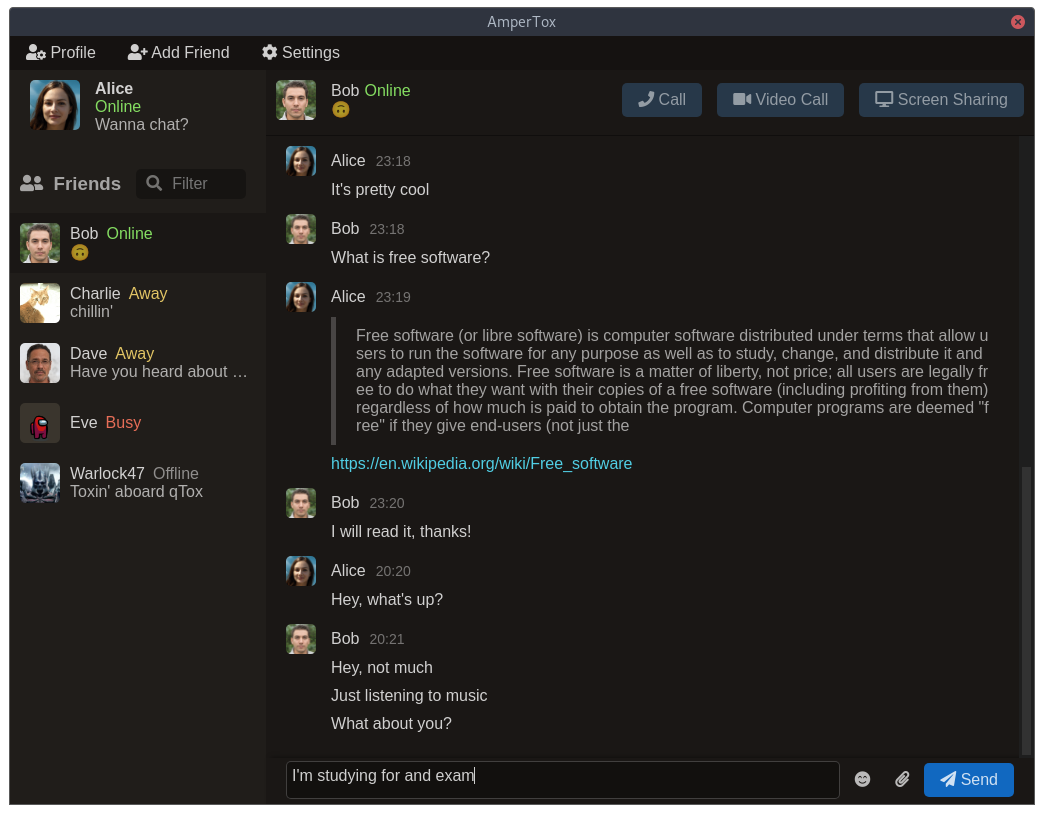
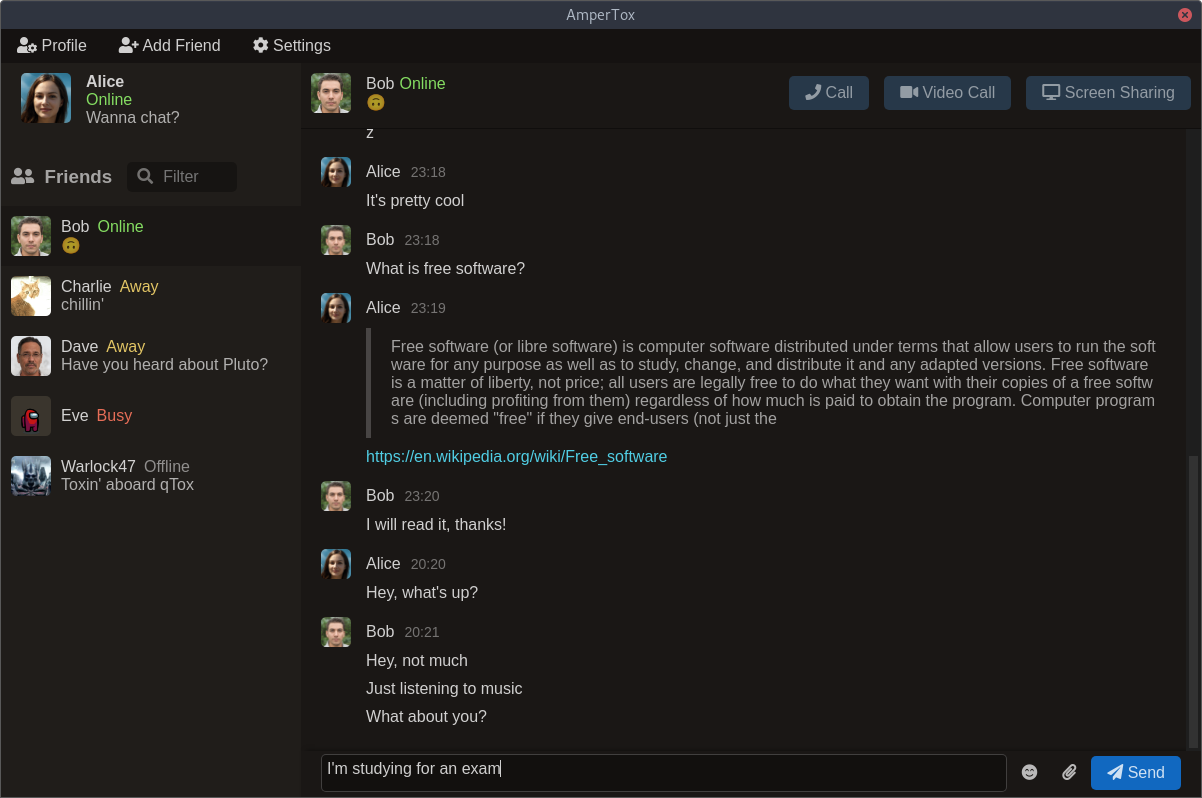
Implement mobile layout
This switches to one column layout on small screens. An extra button was added to allow viewing the contact list (showing the sidebar).

Changed region(s): [[0.0, 0.0, 1.0, 1.0], [0.2452, 0.7519, 0.4598, 0.9023]]

diff --git a/src/ui/main.js b/src/ui/main.js
@@ -1,8 +1,11 @@
 import "./index.css";
 import initComponents from "./components";
+const MOBILE_WIDTH = 600;
 const messenger = document.querySelector("#messenger");
 const welcome = document.querySelector("#welcome");
 const sidebar = document.querySelector("ui-sidebar");
+const topbar = document.querySelector("ui-topbar");
+const view = document.querySelector(".view");
 let username = "";
 let publicKey = "";
 let assetsPath = "";
@@ -20,12 +23,13 @@ function loadInitialData(data)
 function contactSelected(e)
 {
 	messenger.updateContact(e.detail);
+	showView();
+	messenger.show();
+	welcome.hide();
 
-	if (!messenger.isVisible)
-	{
-		messenger.show();
-		welcome.hide();
-	}
+	// mobile layout
+	if (window.innerWidth <= MOBILE_WIDTH)
+		sidebar.hide();
 }
 
 function loadMessages(messages)
@@ -69,6 +73,18 @@ function sendFile(e)
 	messenger.addMessage(message);
 }
 
+function hideView()
+{
+	if (!view.classList.contains("hidden"))
+		view.classList.add("hidden");
+}
+
+function showView()
+{
+	if (view.classList.contains("hidden"))
+		view.classList.remove("hidden");
+}
+
 window.ipc.on("data", (data) => loadInitialData(data));
 window.ipc.on("messages-loaded", (messages) => loadMessages(messages));
 window.ipc.send("data-request");
@@ -76,3 +92,25 @@ initComponents();
 sidebar.contactListElement.addEventListener("contactselect", contactSelected);
 messenger.addEventListener("sendmessage", sendMessage);
 messenger.addEventListener("sendfile", sendFile);
+
+// mobile layout
+window.addEventListener("resize", () =>
+{
+	if (window.innerWidth <= MOBILE_WIDTH && messenger.isVisible)
+	{
+		sidebar.hide();
+		showView();
+	} else if (window.innerWidth > MOBILE_WIDTH)
+	{
+		sidebar.show();
+		showView();
+	}
+});
+topbar.addEventListener("sidebaropen", () =>
+{
+	hideView();
+	messenger.hide();
+	welcome.show();
+	sidebar.show();
+	sidebar.contactListElement.update(sidebar.contactListElement.contactList, null); // clear selected contact
+});

diff --git a/src/ui/components/topbar/topbar.component.html b/src/ui/components/topbar/topbar.component.html
@@ -1,15 +1,17 @@
 <div class="topbar flex-row justify-between">
-	<div class="flex-row">
-		<button class="btn"><i class="fas fa-user-cog"></i> Profile</button>
-		<button class="btn" id="add-contact-btn"><i class="fas fa-user-plus"></i> Add Friend</button>
-		<!-- <button class="btn" title="New Group"><i class="fas fa-users"></i> New Group</button> -->
-		<button class="btn"><i class="fas fa-cog"></i> Settings</button>
+	<div class="app-menu">
+		<button class="btn mobile-only" id="show-sidebar-btn"><i class="fas fa-user-friends"></i>
+			<!-- <div class="mobile-message-notification" ><i class="fas fa-envelope"></i></div> -->
+		</button>
+		<button class="btn"><i class="fas fa-user-cog"></i> <span class="item-name">Profile</span></button>
+		<button class="btn" id="add-contact-btn"><i class="fas fa-user-plus"></i> <span class="item-name">Add Friend</span></button>
+		<!-- <button class="btn" title="New Group"><i class="fas fa-users"></i> <span class="item-name">New Group</span></button> -->
+		<button class="btn"><i class="fas fa-cog"></i> <span class="item-name">Settings</span></button>
 	</div>
 
 	<div class="notifications">
 		<button class="btn btn-primary request-notification-btn hidden" title="You have new friend requests">
 			<span class="notification-btn-title"></span> <i class="fas fa-user-plus"></i>
 		</button>
-		<!-- <button class="btn btn-primary" style="padding: 5px 10px;">+2 <i class="fas fa-envelope"></i></button> -->
 	</div>
 </div>

diff --git a/src/ui/views/messenger/messenger.js b/src/ui/views/messenger/messenger.js
@@ -7,10 +7,10 @@ class Messenger extends Component
 	constructor()
 	{
 		super(htmlTemplate, stylesheet);
-		this.contact = null;
-		this.isVisible = false;
-		this.element = this.shadowRoot.querySelector(".messenger");
+		this.hide(); // hide on client start
 
+		this.contact = null;
+		this.element = this.shadowRoot.querySelector(".messenger");
 		this.chatlog = this.shadowRoot.querySelector("#chatlog");
 		this.chatbox = this.shadowRoot.querySelector("#chatbox");
 		this.chatbox.addEventListener("sendmessage", (e) =>
@@ -51,12 +51,6 @@ class Messenger extends Component
 		window.ipc.on("friend-name-change", (partialContact) => this.updateContactOnEvent(partialContact));
 		window.ipc.on("friend-connection-status-change", (partialContact) => this.updateContactOnEvent(partialContact));
 		window.ipc.on("friend-avatar-receive", (partialContact) => this.draw());
-	}
-
-	show()
-	{
-		this.isVisible = true;
-		this.element.classList.remove("hidden");
 	}
 
 	draw()

diff --git a/src/ui/components/component.js b/src/ui/components/component.js
@@ -21,25 +21,22 @@ class Component extends HTMLElement
 			this.shadowRoot.append(styleElement);
 		}
 
-		// this.element = element.content.cloneNode(true);
 		this.shadowRoot.append(element.content.cloneNode(true));
-		// this.isVisible = true;
+		this.isVisible = true;
 	}
 
-	// show()
-	// {
-	// 	this.isVisible = true;
-	// 	if (this.element.classList.contains("hidden"))
-	// 		this.element.classList.remove("hidden");
-	// }
+	show()
+	{
+		this.isVisible = true;
+		this.classList.remove("hidden");
+	}
 
-	// hide()
-	// {
-	// 	this.isVisible = false;
-	// 	console.log(this.shadowRoot, this.shadowRoot.classList);
-	// 	if (!this.element.classList.contains("hidden"))
-	// 		this.element.classList.add("hidden");
-	// }
+	hide()
+	{
+		this.isVisible = false;
+		if (!this.classList.contains("hidden"))
+			this.classList.add("hidden");
+	}
 }
 
 export default Component;

diff --git a/src/ui/components/topbar/topbar.component.css b/src/ui/components/topbar/topbar.component.css
@@ -5,6 +5,29 @@
 	background-color: rgba(0, 0, 0, 0.2);
 }
 
+.topbar .app-menu
+{
+	display: flex;
+	flex-direction: row;
+}
+
+.topbar .app-menu .mobile-only
+{
+	position: relative;
+}
+
+.topbar .app-menu .mobile-only .mobile-message-notification
+{
+    background: var(--primary);
+    padding: 2px 4px;
+    color: white;
+    border-radius: 50px;
+    position: absolute;
+    top: 14px;
+    right: 4px;
+    font-size: 12px;
+}
+
 .topbar .notifications
 {
 	display: flex;
@@ -16,4 +39,18 @@
 {
 	padding: 0px 10px;
 	margin-right: 10px;
+}
+
+@media(max-width: 600px)
+{
+	.topbar .app-menu
+	{
+		justify-content: space-evenly;
+		flex: 1;
+	}
+
+	.topbar .app-menu .item-name
+	{
+		display: none;
+	}
 }

diff --git a/src/ui/components/contactList/contactList.js b/src/ui/components/contactList/contactList.js
@@ -2,11 +2,11 @@ import Component from "../component.js";
 import htmlTemplate from "./contactList.html";
 import stylesheet from "!!css-loader!./contactList.css";
 import ContactComponent from "../contact/contact.component";
+/** @typedef {import('../../../models/contact')} Contact */
 
 class ContactList extends Component
 {
 	/**
-	 * @typedef {import('../../../models/contact')} Contact
 	 * @param {Contact[]} contactList
 	 */
 	constructor(contactList = [])
@@ -125,7 +125,7 @@ class ContactList extends Component
 	}
 
 	/**
-	 * @param {*} e event
+	 * @param {any} e event
 	 */
 	contactSelected(e)
 	{

diff --git a/src/ui/views/welcome/welcome.js b/src/ui/views/welcome/welcome.js
@@ -10,24 +10,6 @@ class Welcome extends Component
 		this.isVisible = true;
 		this.element = this.shadowRoot.querySelector(".welcome");
 	}
-
-	show()
-	{
-		if (!this.isVisible)
-		{
-			this.isVisible = true;
-			this.element.classList.remove("hidden");
-		}
-	}
-
-	hide()
-	{
-		if (this.isVisible)
-		{
-			this.isVisible = false;
-			this.element.classList.add("hidden");
-		}
-	}
 }
 
 export default Welcome;

diff --git a/src/ui/components/topbar/topbar.component.js b/src/ui/components/topbar/topbar.component.js
@@ -15,6 +15,10 @@ class TopbarComponent extends Component
 			document.querySelector("#add-contact-modal").show();
 		});
 
+		this.shadowRoot.querySelector("#show-sidebar-btn").addEventListener("click", () => {
+			this.dispatchEvent(new CustomEvent("sidebaropen"));
+		});
+
 		this.requestNotificationBtn.addEventListener("click", () => {
 			document.querySelector("#pending-invites-modal").show();
 		});

diff --git a/src/ui/components/chatbox/chatbox.css b/src/ui/components/chatbox/chatbox.css
@@ -48,3 +48,21 @@
 {
 	padding: 10px;
 }
+
+@media(max-width: 600px)
+{
+	.chatbox
+	{
+		padding-left: 10px;
+		padding-right: 10px;
+	}
+}
+
+@media(max-width: 400px)
+{
+	.chatbox
+	{
+		padding-left: 5px;
+		padding-right: 5px;
+	}
+}

diff --git a/app.js b/app.js
@@ -20,7 +20,7 @@ function parseArgs()
 function createWindow()
 {
 	const win = new BrowserWindow({
-		width: 1024,
+		width: 1200,
 		height: 768,
 		icon: path.resolve(__dirname, "assets/icon/128.png"),
 		autoHideMenuBar: true,

diff --git a/src/ui/views/messenger/messenger.css b/src/ui/views/messenger/messenger.css
@@ -98,6 +98,19 @@
 	flex: 1;
 }
 
+@media(max-width: 600px)
+{
+	.messenger
+	{
+		width: 100vw;
+	}
+
+	.messenger .actions .btn
+	{
+		padding: 5px 10px;
+	}
+}
+
 @media(max-width: 850px)
 {
 	.messenger .actions .action-name

diff --git a/src/ui/global.css b/src/ui/global.css
@@ -310,3 +310,11 @@ ul
 	from {transform: rotate(0deg);}
 	to {transform: rotate(360deg);}
 }
+
+@media(min-width: calc(600px + 1px))
+{
+	.mobile-only
+	{
+		display: none;
+	}
+}
